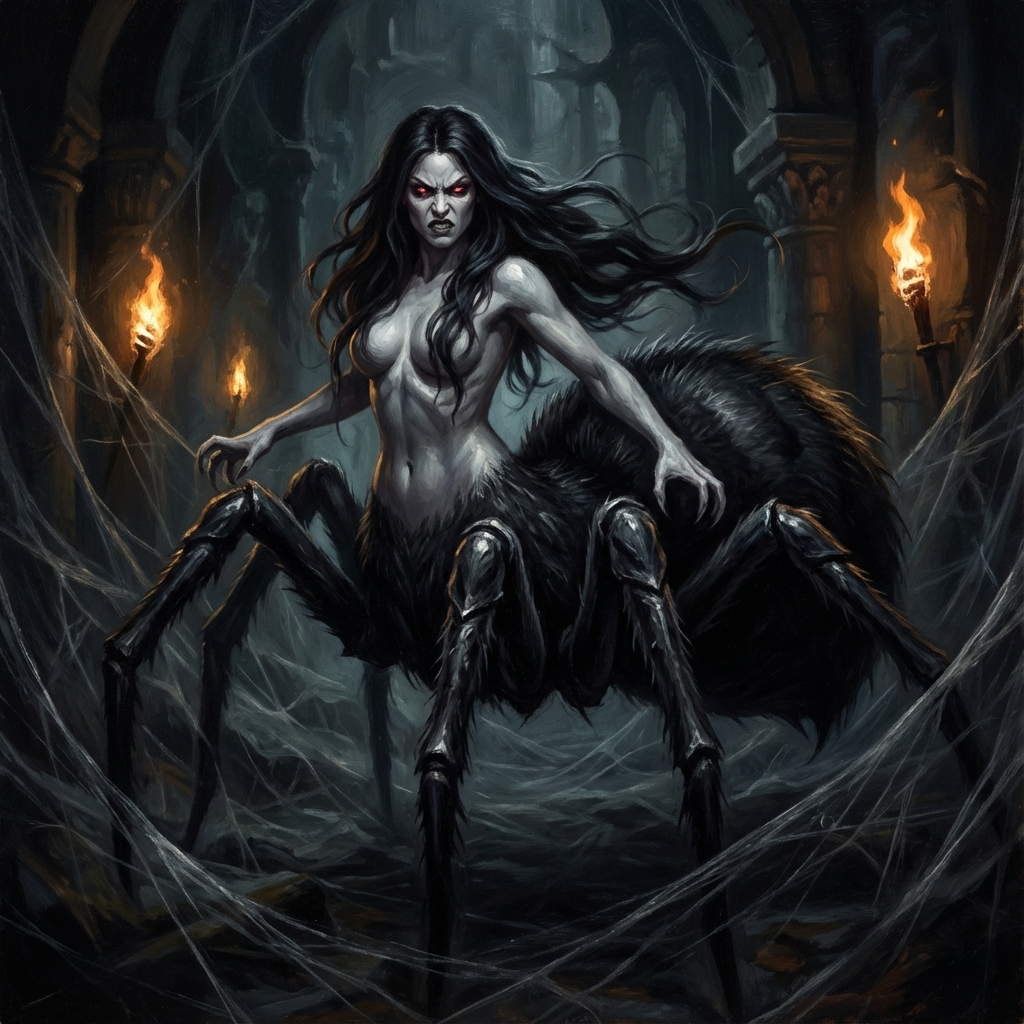
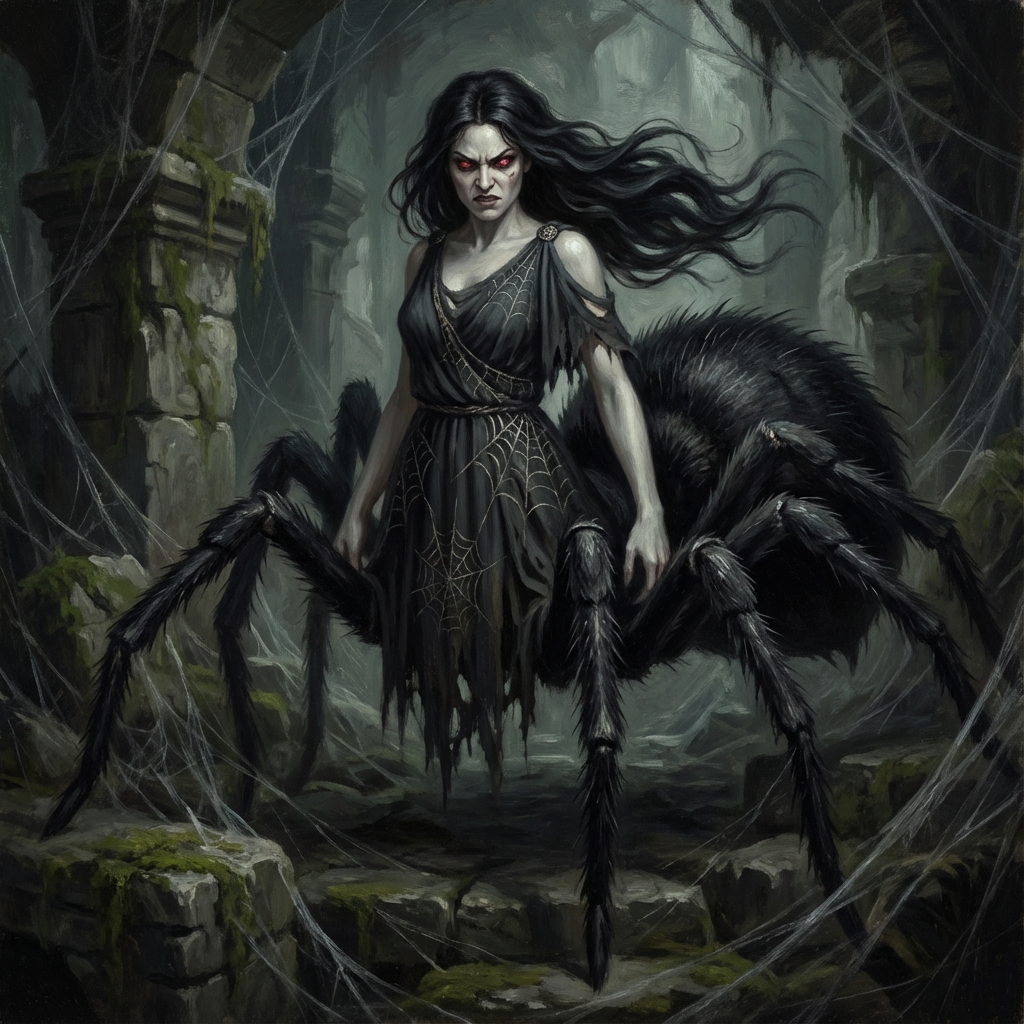
fix: Nouvelles images Arachne + dialogue malediction levee + fix bug araignees

diff --git a/src/data/gods.ts b/src/data/gods.ts
@@ -358,7 +358,7 @@ export const ALL_GODS: GodCard[] = [
         element: 'darkness',
         weakness: 'light',
         maxHealth: 12,
-        imageUrl: '/cards/gods/giant_spider.png',
+        imageUrl: '/cards/gods/giant_spider_1.png',
         flavorText: '"Nous sommes les enfants d\'Arachné. Nous tissons la mort."',
         hidden: true,  // Exclusif mode Histoire
         category: 'creature',
@@ -372,7 +372,7 @@ export const ALL_GODS: GodCard[] = [
         element: 'darkness',
         weakness: 'light',
         maxHealth: 12,
-        imageUrl: '/cards/gods/giant_spider.png',
+        imageUrl: '/cards/gods/giant_spider_2.png',
         flavorText: '"Nous sommes les enfants d\'Arachné. Nous tissons la mort."',
         hidden: true,  // Exclusif mode Histoire
         category: 'creature',
@@ -386,7 +386,7 @@ export const ALL_GODS: GodCard[] = [
         element: 'darkness',
         weakness: 'light',
         maxHealth: 12,
-        imageUrl: '/cards/gods/giant_spider.png',
+        imageUrl: '/cards/gods/giant_spider_3.png',
         flavorText: '"Nous sommes les enfants d\'Arachné. Nous tissons la mort."',
         hidden: true,  // Exclusif mode Histoire
         category: 'creature',

diff --git a/src/data/story/dialogues.ts b/src/data/story/dialogues.ts
@@ -3261,6 +3261,24 @@ export const CHAPTER2_BATTLE3_WIN: DialogueLine[] = [
     {
         speakerId: 'narrator',
         speakerName: 'Narrateur',
+        text: "Sous les yeux des dieux, le corps monstrueux d'Arachné se transforme. La carapace d'araignée se fissure et tombe en morceaux, révélant la forme humaine qu'elle possédait autrefois.",
+        emotion: 'neutral'
+    },
+    {
+        speakerId: 'demeter',
+        speakerName: 'Déméter',
+        text: "*observe avec compassion* La malédiction... En mourant, elle s'est brisée. Elle a retrouvé son apparence humaine.",
+        emotion: 'sad'
+    },
+    {
+        speakerId: 'hestia',
+        speakerName: 'Hestia',
+        text: "*doucement* Quelle tragédie... Elle était une mortelle talentueuse avant qu'Athéna ne la transforme.",
+        emotion: 'sad'
+    },
+    {
+        speakerId: 'narrator',
+        speakerName: 'Narrateur',
         text: "Les araignées restantes fuient dans les ombres, leur mère vaincue. Le chemin vers Athènes est enfin libre.",
         emotion: 'neutral'
     },
